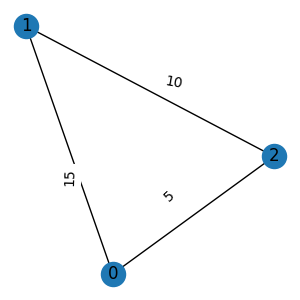
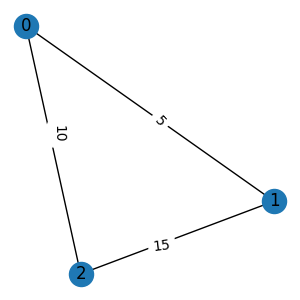
verbose weights graph

diff --git a/dataVisualizer.py b/dataVisualizer.py
@@ -20,12 +20,17 @@ print(A)
 print(A.shape)
 
 G = nx.from_numpy_matrix(A)
-for i in range(A.shape[0]):
-    for j in range(A.shape[0]):
-        if i != j:
-            G.edges[i, j]['weight'] = A[i][j]
+# for i in range(A.shape[0]):
+#     for j in range(A.shape[0]):
+#         if i != j:
+#             G.edges[i, j]['weight'] = A[i][j]
+
+G.edges[0,1]['weight'] = 5
+G.edges[0,2]['weight'] = 10
+G.edges[1,2]['weight'] = 15
 
 
+print(G.edges(data=True))
 
 print("Graph inserted")
 print(G)
@@ -33,6 +38,7 @@ fig = plt.figure(figsize=(3, 3))
 nx.draw(G, with_labels=True)
 if(args.verbose == 'y'):
     labels = nx.get_edge_attributes(G,'weight')
+    print(labels)
     nx.draw_networkx_edge_labels(G, pos=nx.spring_layout(G), edge_labels=labels)
 plt.savefig("Graph.png", format="PNG")
 plt.clf()
